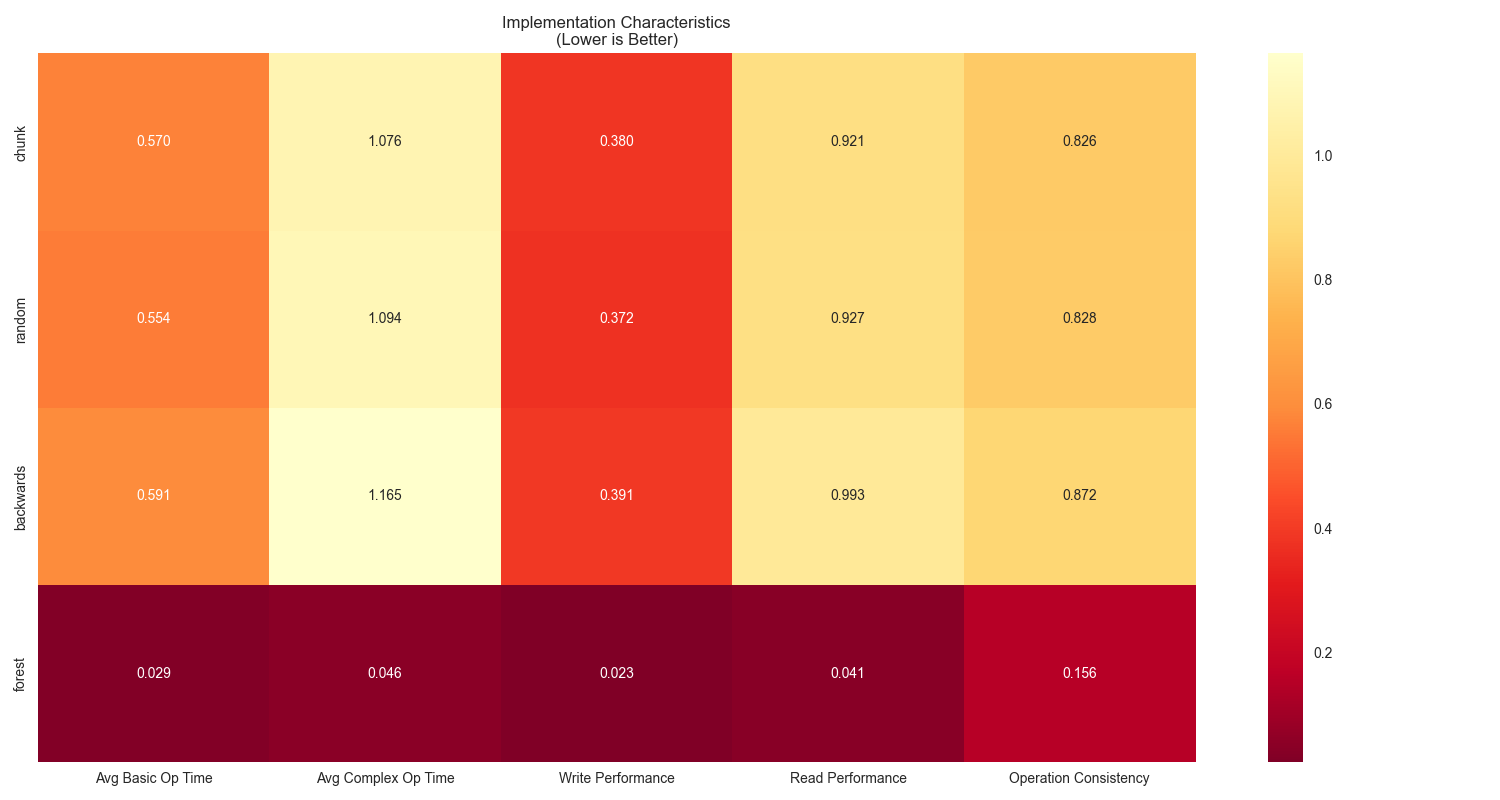
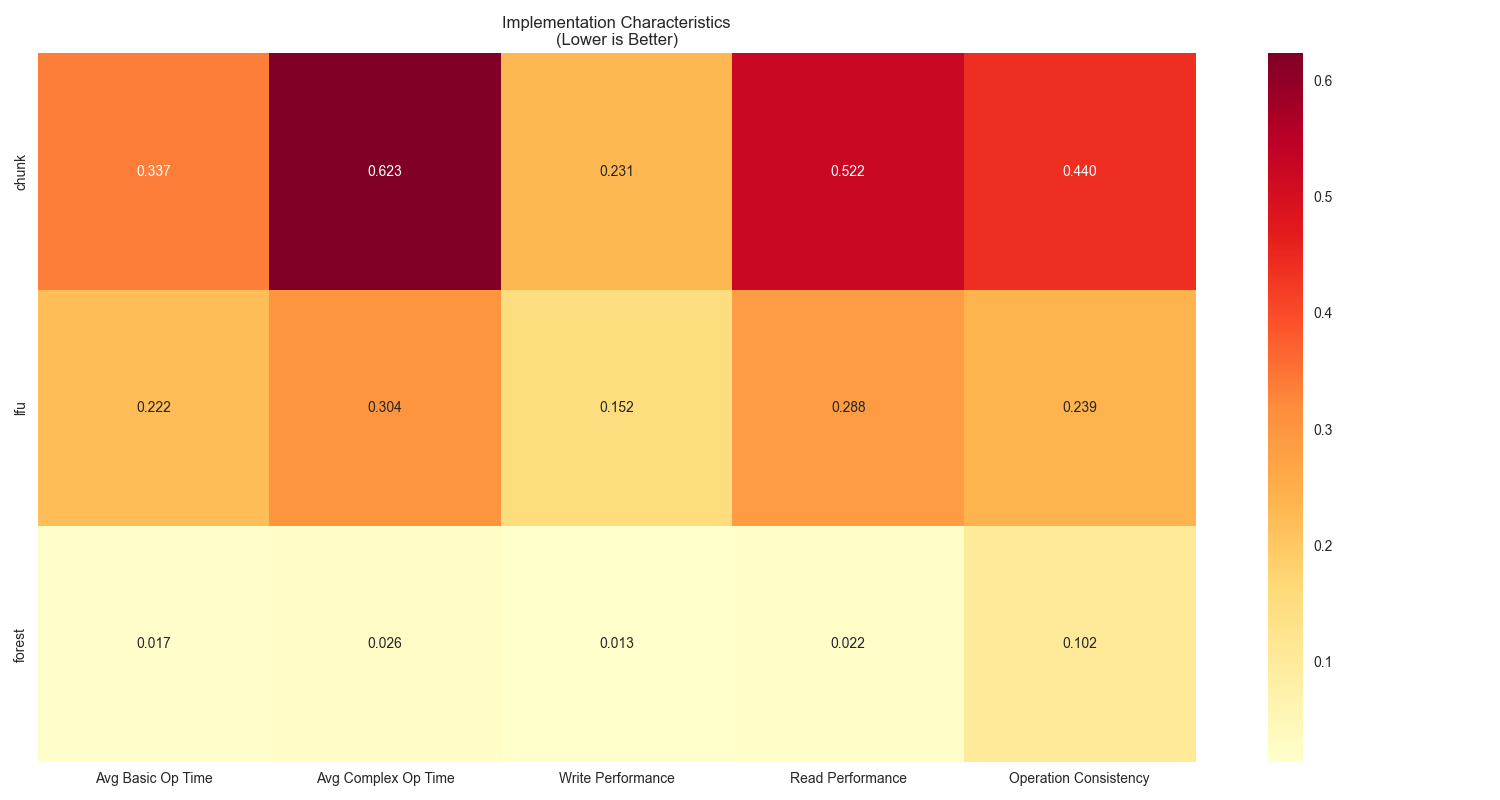
add reverse heatmap

diff --git a/evaluation_results/visualization_script.py b/evaluation_results/visualization_script.py
@@ -72,7 +72,7 @@ def create_operation_performance_plot(df):
     sns.heatmap(performance_data,
                 annot=True,
                 fmt='.3f',
-                cmap='YlOrRd_r')
+                cmap='YlOrRd')
     plt.title('Operation Performance by Implementation (Lower is Better)')
     plt.ylabel('Implementation')
     plt.xlabel('Operation')
@@ -111,7 +111,7 @@ def create_data_type_comparison(df):
     sns.heatmap(data_type_perf,
                 annot=True,
                 fmt='.3f',
-                cmap='YlOrRd_r')
+                cmap='YlOrRd')
     plt.title('Operation Performance by Data Type (Lower is Better)')
     plt.ylabel('Data Type')
     plt.xlabel('Operation')
@@ -189,7 +189,7 @@ def analyze_operation_patterns(df):
     sns.heatmap(basic_data,
                 annot=True,
                 fmt='.3f',
-                cmap='YlOrRd_r')
+                cmap='YlOrRd')
     plt.title('Basic Operation Performance\n(Lower is Better)')
 
     # Complex operations subplot
@@ -204,7 +204,7 @@ def analyze_operation_patterns(df):
     sns.heatmap(complex_data,
                 annot=True,
                 fmt='.3f',
-                cmap='YlOrRd_r')
+                cmap='YlOrRd')
     plt.title('Complex Operation Performance\n(Lower is Better)')
 
     plt.tight_layout()
@@ -244,7 +244,7 @@ def analyze_implementation_characteristics(df):
     sns.heatmap(characteristics,
                 annot=True,
                 fmt='.3f',
-                cmap='YlOrRd_r')
+                cmap='YlOrRd')
     plt.title('Implementation Characteristics\n(Lower is Better)')
     plt.tight_layout()
     plt.savefig('implementation_characteristics.png')
